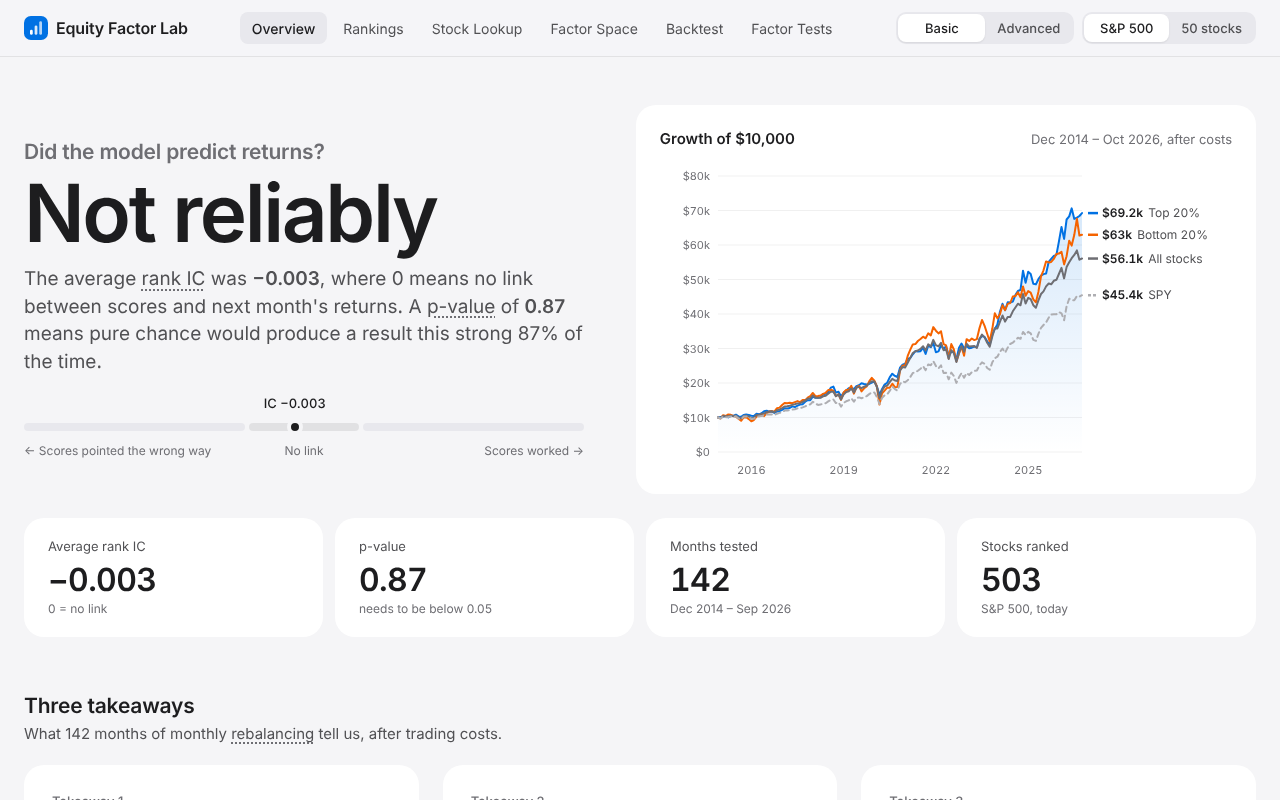
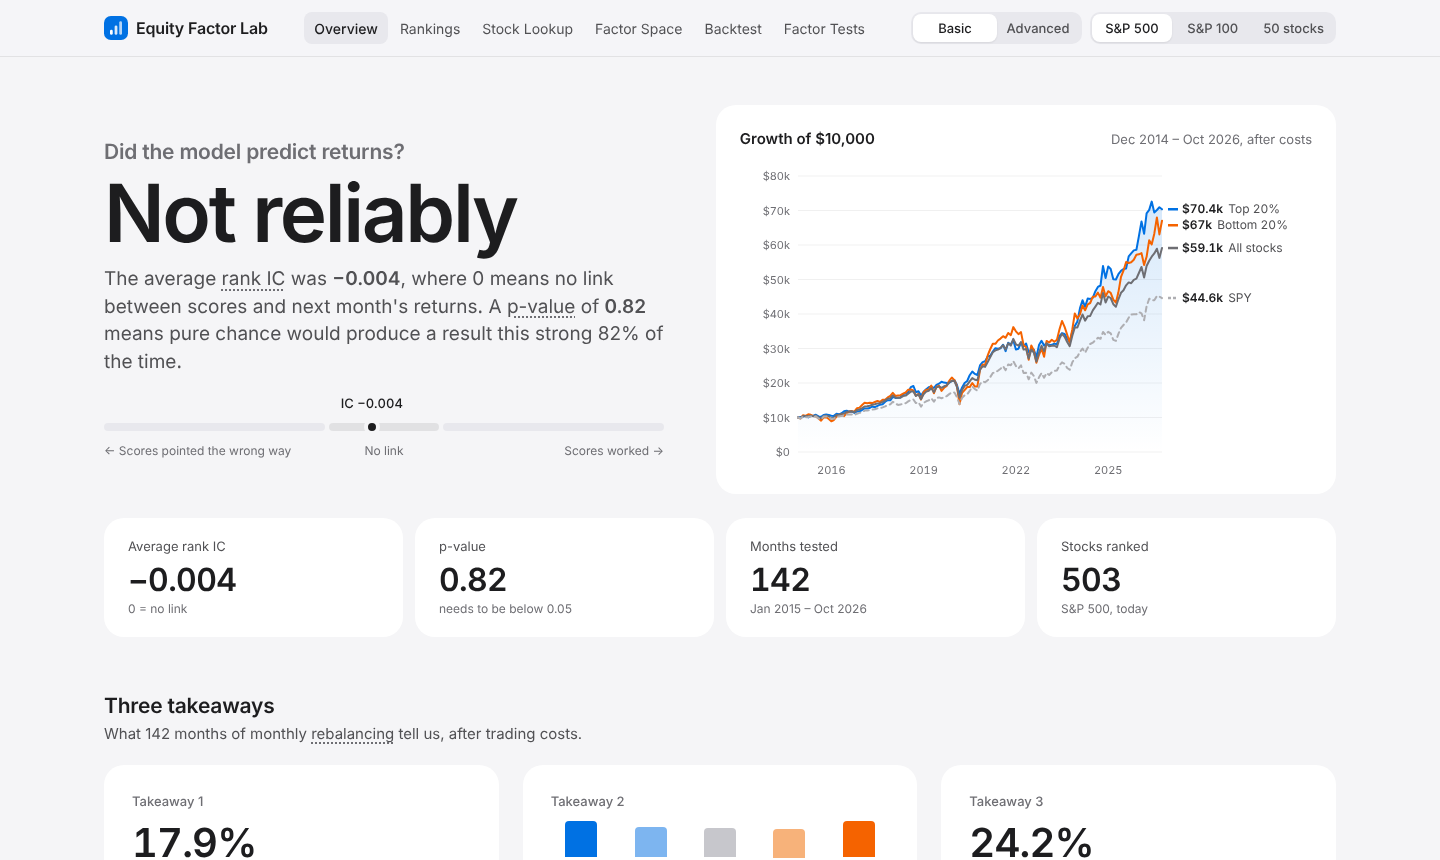
Fit the redesign to v0.2: three-universe switch, About text and preview
- Top bar fits on one row at 1440px with the new S&P 100 button; below
  1380px the tabs move to their own row as before
- Phone: the five switch buttons get enough room
- About section now says "US large caps", mentions the S&P 100, and lists
  the v0.2 methods (Holm-adjusted p-values, Fama-French regressions with
  Newey-West t-stats) and tools (statsmodels, Excel export)
- About years use holding months (2015 to 2026), matching the README
- README preview image rebuilt from the 16 Nov 2026 data

Claude-Session: https://claude.ai/code/session_01J5fUu3VxCFuj31MmRXAFc2

diff --git a/docs/index.html b/docs/index.html
@@ -55,19 +55,19 @@ button{font:inherit;color:inherit}
 .bar{display:flex;align-items:center;gap:12px;min-height:56px;flex-wrap:wrap;padding-top:8px;padding-bottom:8px}
 .brand{display:flex;align-items:center;gap:8px;font-weight:600;font-size:16px;letter-spacing:-.01em;color:var(--ink);text-decoration:none;white-space:nowrap}
 .brand svg{width:24px;height:24px;flex:none}
-.tabs{display:flex;gap:4px;margin:0 auto}
-.tab{appearance:none;border:0;background:none;color:var(--muted);font:400 14px var(--sans);padding:4px 12px;border-radius:8px;cursor:pointer;display:flex;align-items:center;gap:8px;min-height:32px;white-space:nowrap;transition:color .16s var(--ease),background-color .16s var(--ease)}
+.tabs{display:flex;gap:2px;margin:0 auto}
+.tab{appearance:none;border:0;background:none;color:var(--muted);font:400 14px var(--sans);padding:4px 10px;border-radius:8px;cursor:pointer;display:flex;align-items:center;gap:8px;min-height:32px;white-space:nowrap;transition:color .16s var(--ease),background-color .16s var(--ease)}
 .tab:hover{color:var(--ink)}
 .tab svg{width:20px;height:20px;display:none}
 .tab .sm{display:none}
 .tab[aria-selected=true]{color:var(--ink);background:var(--chip);font-weight:500}
 .switches{display:flex;gap:8px}
 .seg{position:relative;display:grid;grid-auto-flow:column;grid-auto-columns:1fr;background:var(--chip);border-radius:10px;padding:2px}
-.seg button{position:relative;z-index:1;border:0;background:none;font:500 13px var(--sans);color:var(--muted);padding:4px 12px;border-radius:8px;min-height:28px;cursor:pointer;white-space:nowrap;transition:color .16s var(--ease)}
+.seg button{position:relative;z-index:1;border:0;background:none;font:500 13px var(--sans);color:var(--muted);padding:4px 10px;border-radius:8px;min-height:28px;cursor:pointer;white-space:nowrap;transition:color .16s var(--ease)}
 .seg button:hover{color:var(--ink)}
 .seg button[aria-pressed=true]{color:var(--ink)}
 .seg .thumb{position:absolute;top:2px;bottom:2px;left:2px;width:calc((100% - 4px)/var(--n,2));background:var(--thumb);border-radius:8px;box-shadow:0 1px 2px rgba(0,0,0,.08);transition:transform .2s var(--ease);transform:translateX(calc(100% * var(--i,0)))}
-@media (max-width:1279px){.tabs{order:3;width:100%;margin:0 -12px}.switches{margin-left:auto}}
+@media (max-width:1379px){.tabs{order:3;width:100%;margin:0 -10px}.switches{margin-left:auto}}
 
 /* ---------- layout ---------- */
 main.wrap{padding-top:48px;padding-bottom:80px;min-height:70vh}
@@ -353,7 +353,9 @@ footer .wrap{display:flex;flex-wrap:wrap;gap:8px 24px;justify-content:space-betw
   .brand svg{width:24px;height:24px}
   .switches{width:100%;margin:0}
   .switches .seg{flex:1}
-  .seg button{padding:4px 8px}
+  .seg button{padding:4px 4px;font-size:12px}
+  .switches .seg:first-child{flex:0 0 auto}
+  .switches .seg:first-child button{padding:4px 10px}
   .tabs{position:fixed;left:0;right:0;bottom:0;z-index:60;margin:0;width:auto;display:grid;grid-template-columns:repeat(6,minmax(0,1fr));gap:0;background:var(--surface);border-top:1px solid var(--hairline);padding:4px 4px calc(4px + env(safe-area-inset-bottom))}
   .tab{flex-direction:column;justify-content:center;gap:4px;font-size:12px;min-height:56px;padding:8px 0;border-radius:var(--rc)}
   .tab svg{display:block}
@@ -899,19 +901,19 @@ R.overview = () => {
 };
 const REPO = "https://github.com/FleximusRex/Finance-equity-scanner";
 function about(u, h) {
-  const y0 = u.rm[0]?.y, y1 = u.rm.at(-1)?.y;
+  const y0 = u.hold[0]?.y, y1 = u.hold.at(-1)?.y;
   return `<section class="section about" aria-labelledby="about-h">
     <div>
       <h2 id="about-h">About this project</h2>
       <p class="by">Sawyer Cross · Finance student, University of West Florida</p>
-      <p class="tx">I built a Python pipeline that ranks the S&amp;P 500 on five factor categories and tests whether the price-based factors predicted next-month returns from ${y0} to ${y1}. They did not. This dashboard reports that result as it is, along with the biases that flatter the raw numbers.</p>
+      <p class="tx">I built a Python pipeline that ranks US large caps on five factor categories and tests whether the price-based factors predicted next-month returns from ${y0} to ${y1}. They did not, on the S&amp;P 500 or the S&amp;P 100. This dashboard reports that result as it is, along with the biases that flatter the raw numbers.</p>
       <div class="links"><a href="${REPO}/blob/main/docs/methodology.md">Methodology</a><a href="${REPO}">Source code</a><a href="https://colab.research.google.com/github/FleximusRex/Finance-equity-scanner/blob/main/notebooks/multi_factor_equity_screener.ipynb">Colab notebook</a><a href="https://github.com/FleximusRex">GitHub profile</a></div>
     </div>
     <dl>
       <div><dt>Question</dt><dd>Do momentum and low-volatility scores predict next month's returns?</dd></div>
       <div><dt>Sample</dt><dd>${F.int(u.n)} stocks, ${F.int(h.months)} monthly rebalances, 10 bps cost per side</dd></div>
-      <div><dt>Method</dt><dd>Quintile portfolios, rank IC with a t-test, single-factor tests</dd></div>
-      <div><dt>Built with</dt><dd>Python, pandas, NumPy, SciPy, yfinance; unit tests run in CI</dd></div>
+      <div><dt>Method</dt><dd>Quintile portfolios, rank IC with Holm-adjusted p-values, Fama-French five-factor plus momentum regressions with Newey-West t-stats</dd></div>
+      <div><dt>Built with</dt><dd>Python, pandas, SciPy, statsmodels, yfinance; Excel export; unit tests run in CI</dd></div>
       <div><dt>Looking for</dt><dd>Finance internship roles</dd></div>
     </dl>
   </section>`;

diff --git a/src/dashboard_template.html b/src/dashboard_template.html
@@ -55,19 +55,19 @@ button{font:inherit;color:inherit}
 .bar{display:flex;align-items:center;gap:12px;min-height:56px;flex-wrap:wrap;padding-top:8px;padding-bottom:8px}
 .brand{display:flex;align-items:center;gap:8px;font-weight:600;font-size:16px;letter-spacing:-.01em;color:var(--ink);text-decoration:none;white-space:nowrap}
 .brand svg{width:24px;height:24px;flex:none}
-.tabs{display:flex;gap:4px;margin:0 auto}
-.tab{appearance:none;border:0;background:none;color:var(--muted);font:400 14px var(--sans);padding:4px 12px;border-radius:8px;cursor:pointer;display:flex;align-items:center;gap:8px;min-height:32px;white-space:nowrap;transition:color .16s var(--ease),background-color .16s var(--ease)}
+.tabs{display:flex;gap:2px;margin:0 auto}
+.tab{appearance:none;border:0;background:none;color:var(--muted);font:400 14px var(--sans);padding:4px 10px;border-radius:8px;cursor:pointer;display:flex;align-items:center;gap:8px;min-height:32px;white-space:nowrap;transition:color .16s var(--ease),background-color .16s var(--ease)}
 .tab:hover{color:var(--ink)}
 .tab svg{width:20px;height:20px;display:none}
 .tab .sm{display:none}
 .tab[aria-selected=true]{color:var(--ink);background:var(--chip);font-weight:500}
 .switches{display:flex;gap:8px}
 .seg{position:relative;display:grid;grid-auto-flow:column;grid-auto-columns:1fr;background:var(--chip);border-radius:10px;padding:2px}
-.seg button{position:relative;z-index:1;border:0;background:none;font:500 13px var(--sans);color:var(--muted);padding:4px 12px;border-radius:8px;min-height:28px;cursor:pointer;white-space:nowrap;transition:color .16s var(--ease)}
+.seg button{position:relative;z-index:1;border:0;background:none;font:500 13px var(--sans);color:var(--muted);padding:4px 10px;border-radius:8px;min-height:28px;cursor:pointer;white-space:nowrap;transition:color .16s var(--ease)}
 .seg button:hover{color:var(--ink)}
 .seg button[aria-pressed=true]{color:var(--ink)}
 .seg .thumb{position:absolute;top:2px;bottom:2px;left:2px;width:calc((100% - 4px)/var(--n,2));background:var(--thumb);border-radius:8px;box-shadow:0 1px 2px rgba(0,0,0,.08);transition:transform .2s var(--ease);transform:translateX(calc(100% * var(--i,0)))}
-@media (max-width:1279px){.tabs{order:3;width:100%;margin:0 -12px}.switches{margin-left:auto}}
+@media (max-width:1379px){.tabs{order:3;width:100%;margin:0 -10px}.switches{margin-left:auto}}
 
 /* ---------- layout ---------- */
 main.wrap{padding-top:48px;padding-bottom:80px;min-height:70vh}
@@ -353,7 +353,9 @@ footer .wrap{display:flex;flex-wrap:wrap;gap:8px 24px;justify-content:space-betw
   .brand svg{width:24px;height:24px}
   .switches{width:100%;margin:0}
   .switches .seg{flex:1}
-  .seg button{padding:4px 8px}
+  .seg button{padding:4px 4px;font-size:12px}
+  .switches .seg:first-child{flex:0 0 auto}
+  .switches .seg:first-child button{padding:4px 10px}
   .tabs{position:fixed;left:0;right:0;bottom:0;z-index:60;margin:0;width:auto;display:grid;grid-template-columns:repeat(6,minmax(0,1fr));gap:0;background:var(--surface);border-top:1px solid var(--hairline);padding:4px 4px calc(4px + env(safe-area-inset-bottom))}
   .tab{flex-direction:column;justify-content:center;gap:4px;font-size:12px;min-height:56px;padding:8px 0;border-radius:var(--rc)}
   .tab svg{display:block}
@@ -899,19 +901,19 @@ R.overview = () => {
 };
 const REPO = "https://github.com/FleximusRex/Finance-equity-scanner";
 function about(u, h) {
-  const y0 = u.rm[0]?.y, y1 = u.rm.at(-1)?.y;
+  const y0 = u.hold[0]?.y, y1 = u.hold.at(-1)?.y;
   return `<section class="section about" aria-labelledby="about-h">
     <div>
       <h2 id="about-h">About this project</h2>
       <p class="by">Sawyer Cross · Finance student, University of West Florida</p>
-      <p class="tx">I built a Python pipeline that ranks the S&amp;P 500 on five factor categories and tests whether the price-based factors predicted next-month returns from ${y0} to ${y1}. They did not. This dashboard reports that result as it is, along with the biases that flatter the raw numbers.</p>
+      <p class="tx">I built a Python pipeline that ranks US large caps on five factor categories and tests whether the price-based factors predicted next-month returns from ${y0} to ${y1}. They did not, on the S&amp;P 500 or the S&amp;P 100. This dashboard reports that result as it is, along with the biases that flatter the raw numbers.</p>
       <div class="links"><a href="${REPO}/blob/main/docs/methodology.md">Methodology</a><a href="${REPO}">Source code</a><a href="https://colab.research.google.com/github/FleximusRex/Finance-equity-scanner/blob/main/notebooks/multi_factor_equity_screener.ipynb">Colab notebook</a><a href="https://github.com/FleximusRex">GitHub profile</a></div>
     </div>
     <dl>
       <div><dt>Question</dt><dd>Do momentum and low-volatility scores predict next month's returns?</dd></div>
       <div><dt>Sample</dt><dd>${F.int(u.n)} stocks, ${F.int(h.months)} monthly rebalances, 10 bps cost per side</dd></div>
-      <div><dt>Method</dt><dd>Quintile portfolios, rank IC with a t-test, single-factor tests</dd></div>
-      <div><dt>Built with</dt><dd>Python, pandas, NumPy, SciPy, yfinance; unit tests run in CI</dd></div>
+      <div><dt>Method</dt><dd>Quintile portfolios, rank IC with Holm-adjusted p-values, Fama-French five-factor plus momentum regressions with Newey-West t-stats</dd></div>
+      <div><dt>Built with</dt><dd>Python, pandas, SciPy, statsmodels, yfinance; Excel export; unit tests run in CI</dd></div>
       <div><dt>Looking for</dt><dd>Finance internship roles</dd></div>
     </dl>
   </section>`;
